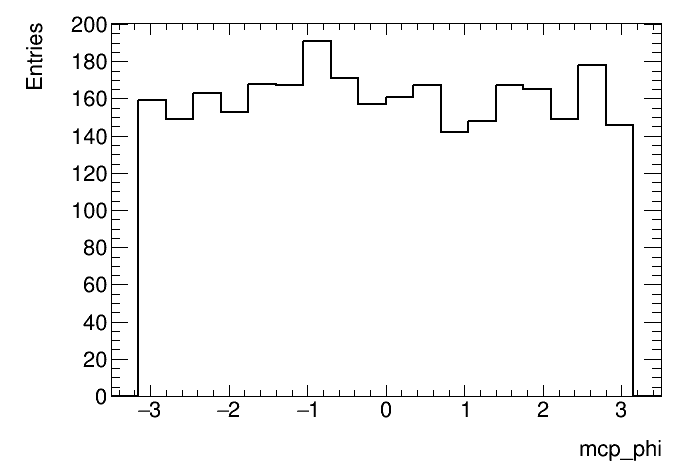
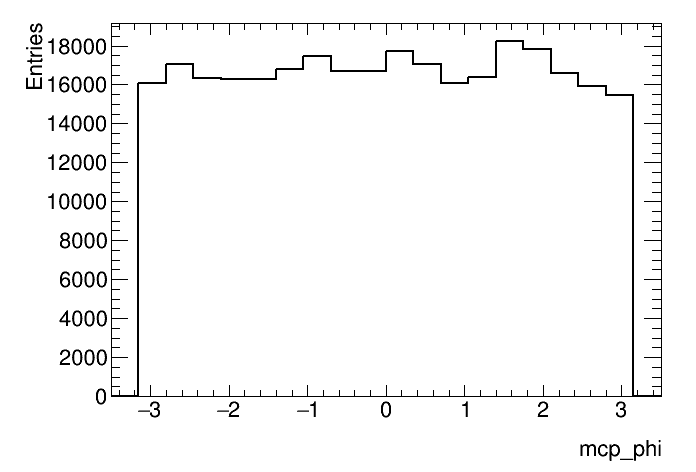
troubleshooting

diff --git a/makeMuonPlots.py b/makeMuonPlots.py
@@ -14,9 +14,9 @@ max_events = -1
 # Gather input files
 # Note: these are using the path convention from the singularity command in the MuCol tutorial (see README)
 
-fnames= glob.glob("/data/fmeloni/DataMuC_MuColl10_v0A/v0/recoBIB/muonGun_pT_1000_5000*/*.slcio")
+#fnames= glob.glob("/data/fmeloni/DataMuC_MuColl10_v0A/v0/recoBIB/muonGun_pT_1000_5000*/*.slcio")
 
-#fnames= glob.glob("/data/fmeloni/DataMuC_MuColl10_v0A/v0/recoBIB/muonGun_pT_0_50*/*.slcio")
+fnames= glob.glob("/data/fmeloni/DataMuC_MuColl10_v0A/v0/recoBIB/muonGun_pT_0_50*/*.slcio")
 #the one above worked!! but is only from 0-50 
 
 ##fnames= glob.glob("/data/fmeloni/DataMuC_MuColl10_v0A/v0/recoBIB/muonGun_pT_0_50/muonGun_pT_0_50_reco_10.slcio")
@@ -40,7 +40,7 @@ print("Found %i files."%len(fnames))
 # Set up histograms
 # This is an algorithmic way of making a bunch of histograms and storing them in a dictionary
 variables = {}
-variables["pt"] =  {"nbins": 20, "xmin": 0, "xmax": 2000}
+variables["pt"] =  {"nbins": 20, "xmin": 0, "xmax": 50}
 variables["eta"] = {"nbins": 20, "xmin": -3, "xmax": 3}
 variables["phi"] = {"nbins": 20, "xmin": -3.5, "xmax": 3.5}
 variables["n"] = {"nbins": 20, "xmin": 0, "xmax": 20}
